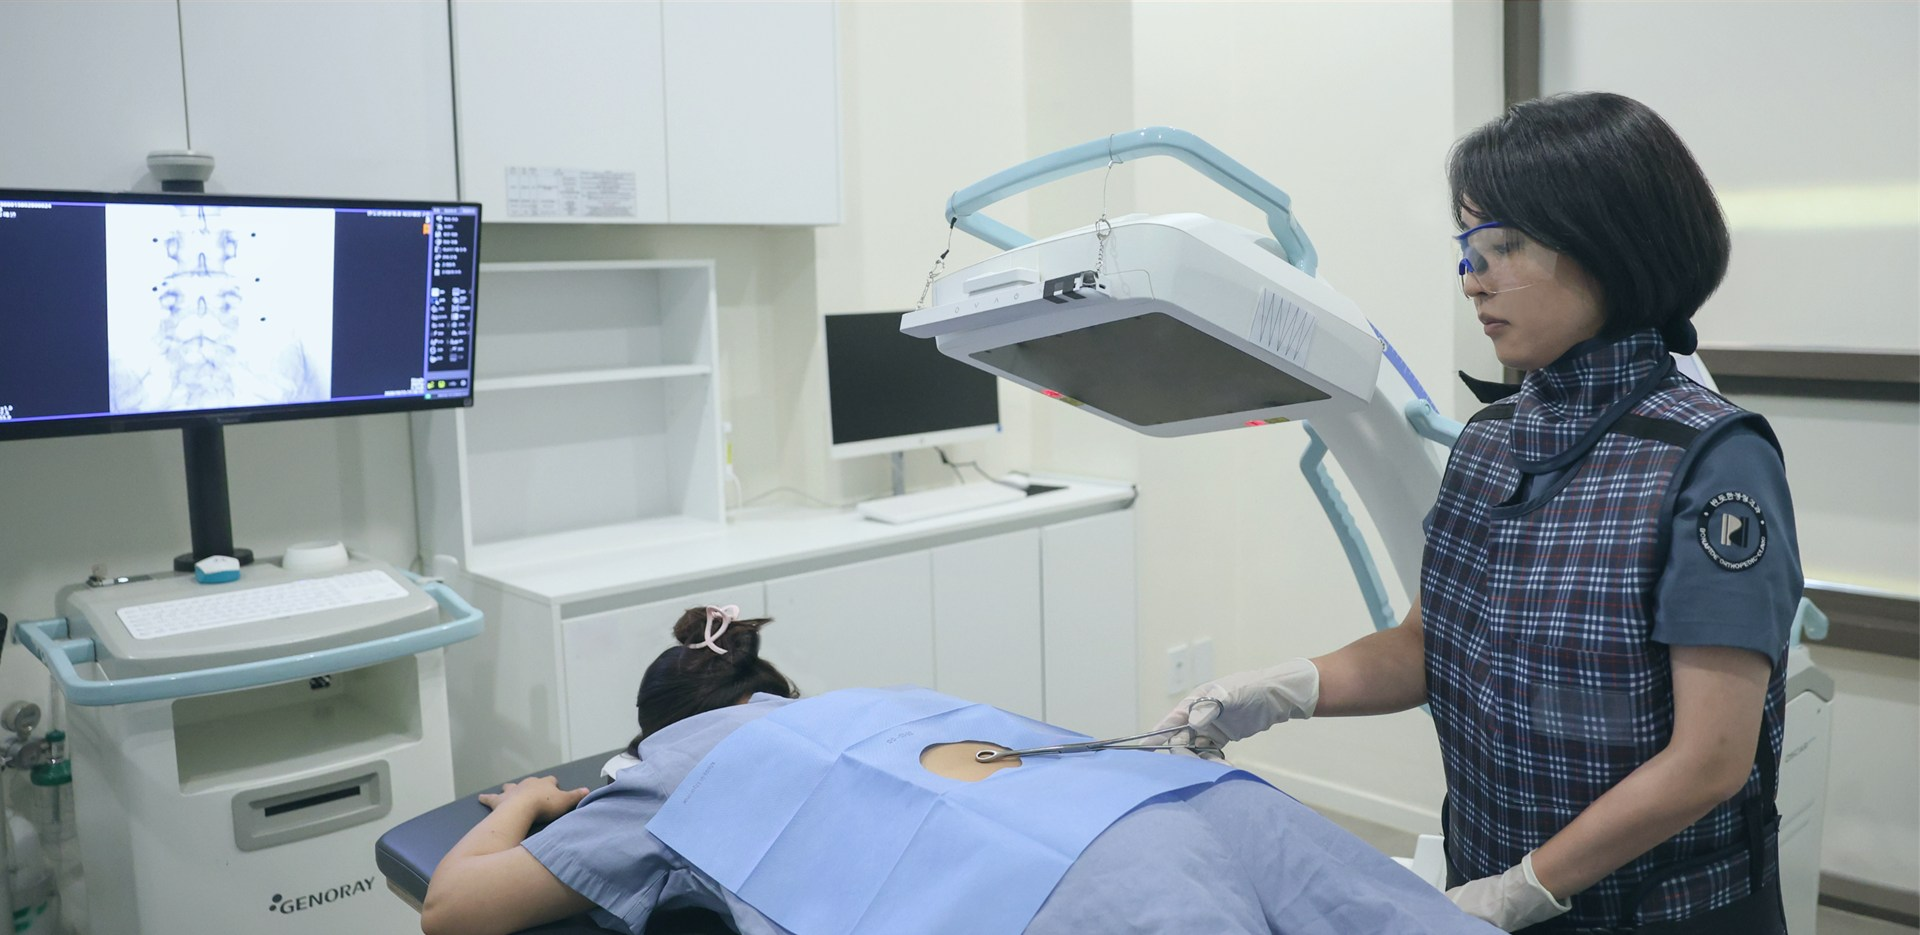
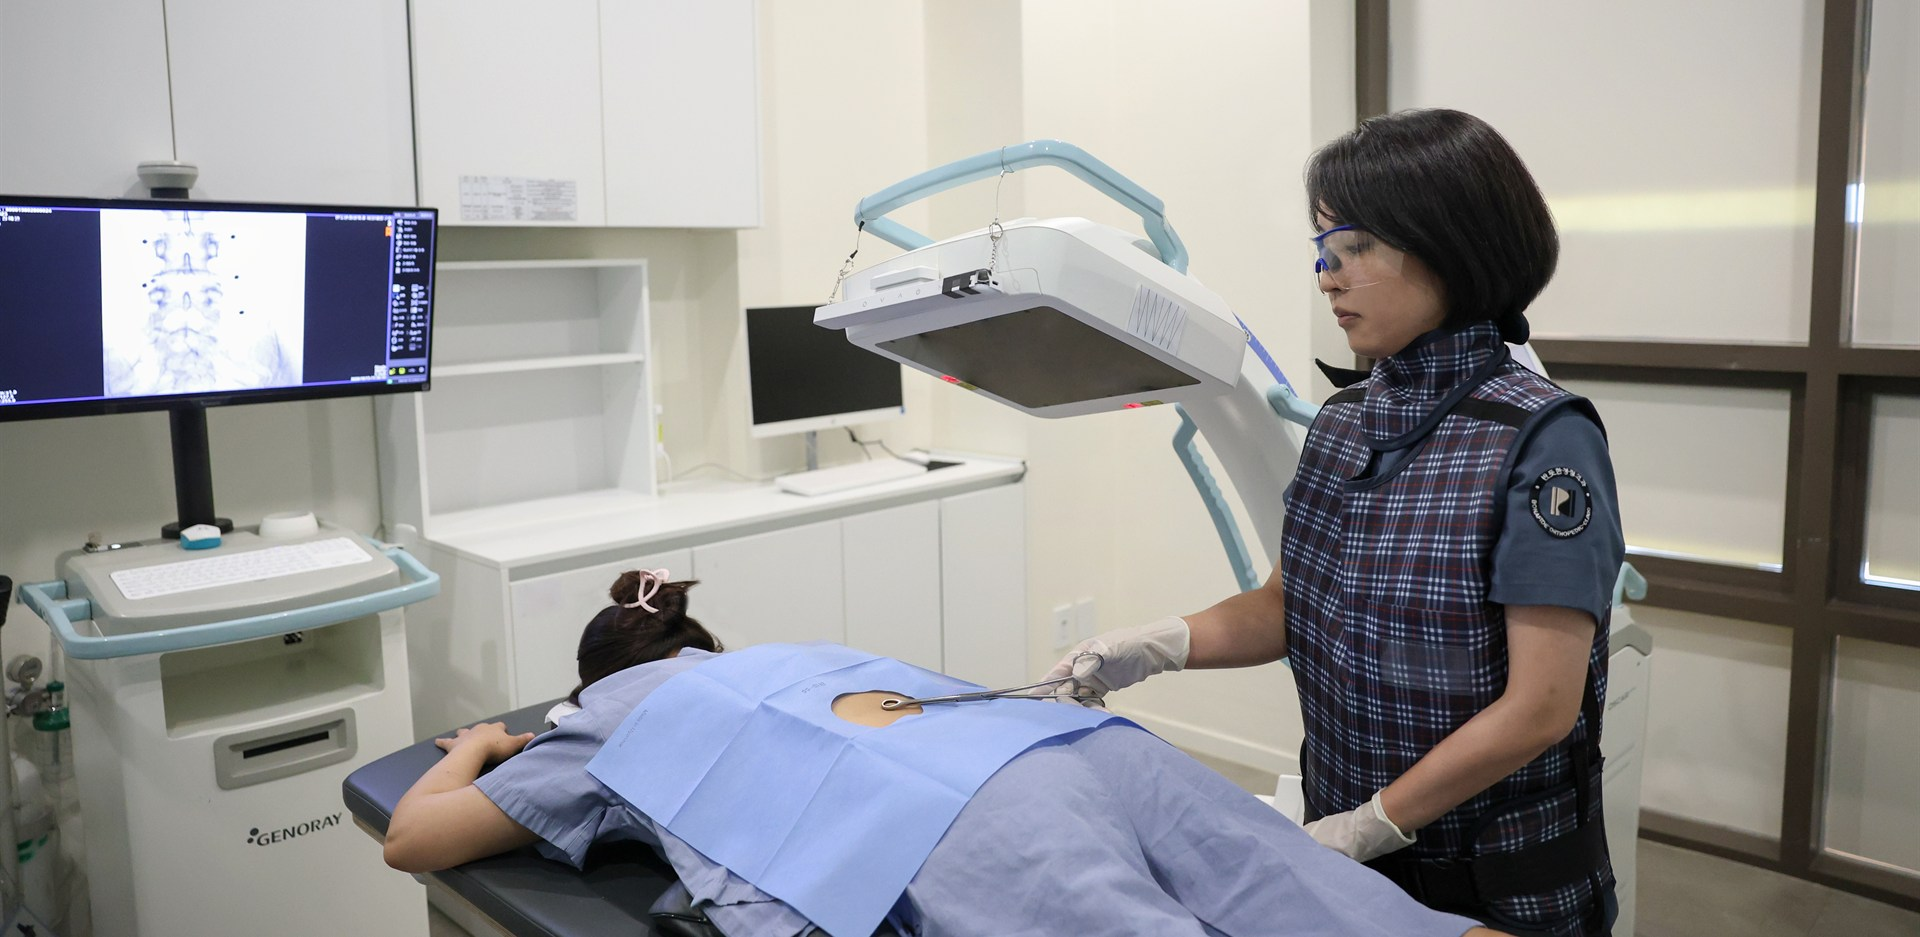
chore: 주사팀 배너 정상민·백민철·박초롱 원장님 사진을 촬영 원본(6000~6720px)에서 다시 잘라 고화질로

diff --git a/public/dongseon/index.html b/public/dongseon/index.html
@@ -8061,7 +8061,7 @@ function wtFrame(ts){
 const WB_LIST_SEC=50, WB_BAN_SEC=10;
 /* 원장님 사진·전공 (2026-10-26 받은 사진). 사진을 바꾸면 img/doc/ 파일만 바꾼다. 새 원장님은 여기에 한 줄 — 없으면 이름 첫 글자 + '정형외과 전문의' */
 const DOC_PHOTO={'김현우':{f:'kimhw.jpg',pos:'64% 30%',spec:'정형외과 전문의'},'정상민':{f:'jungsm.jpg',pos:'74% 25%',spec:'마취통증의학과 전문의'},
-  '백민철':{f:'baekmc.jpg',pos:'84% 25%',spec:'재활의학과 전문의'},'박초롱':{f:'parkcr.jpg',pos:'82% 28%',spec:'신경외과 전문의'}};
+  '백민철':{f:'baekmc.jpg',pos:'78% 22%',spec:'재활의학과 전문의'},'박초롱':{f:'parkcr.jpg',pos:'72% 25%',spec:'신경외과 전문의'}};
 let WB_DOCS=null,WB_DOCS_AT=0,WB_PHASE='list',WB_AT=0;
 function waitBannerOn(){try{return localStorage.getItem('dsWaitBanner')!=='0';}catch(e){return true;}}
 window.setWaitBanner=on=>{try{localStorage.setItem('dsWaitBanner',on?'1':'0');}catch(e){}if(!on)wbShow(false);WB_PHASE='list';WB_AT=Date.now();};
